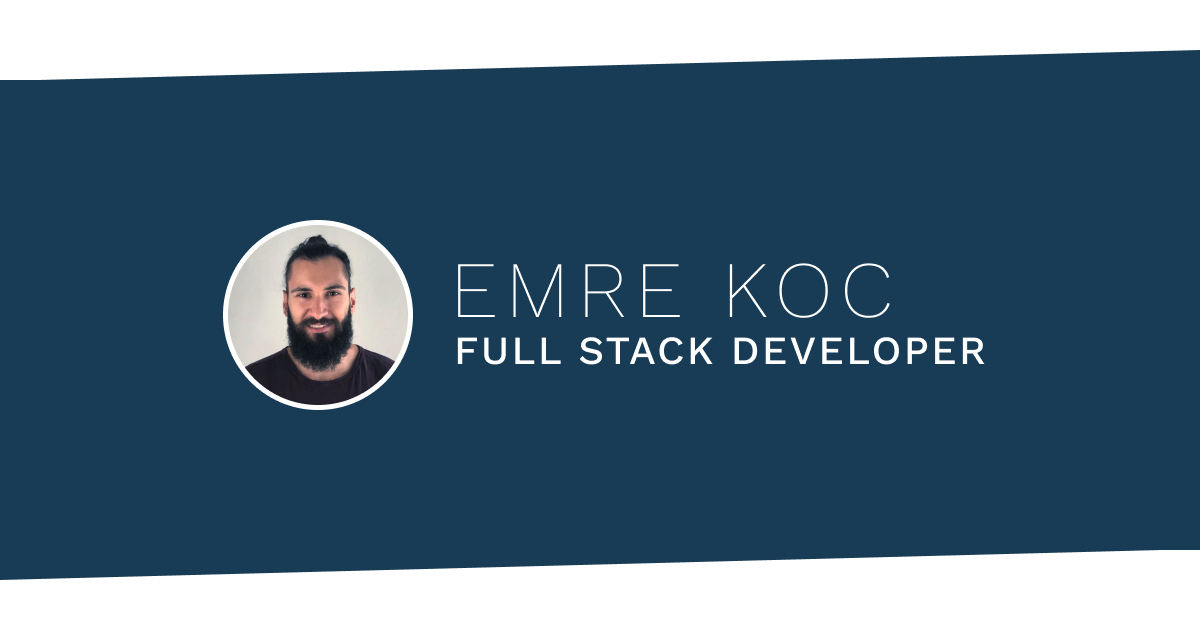
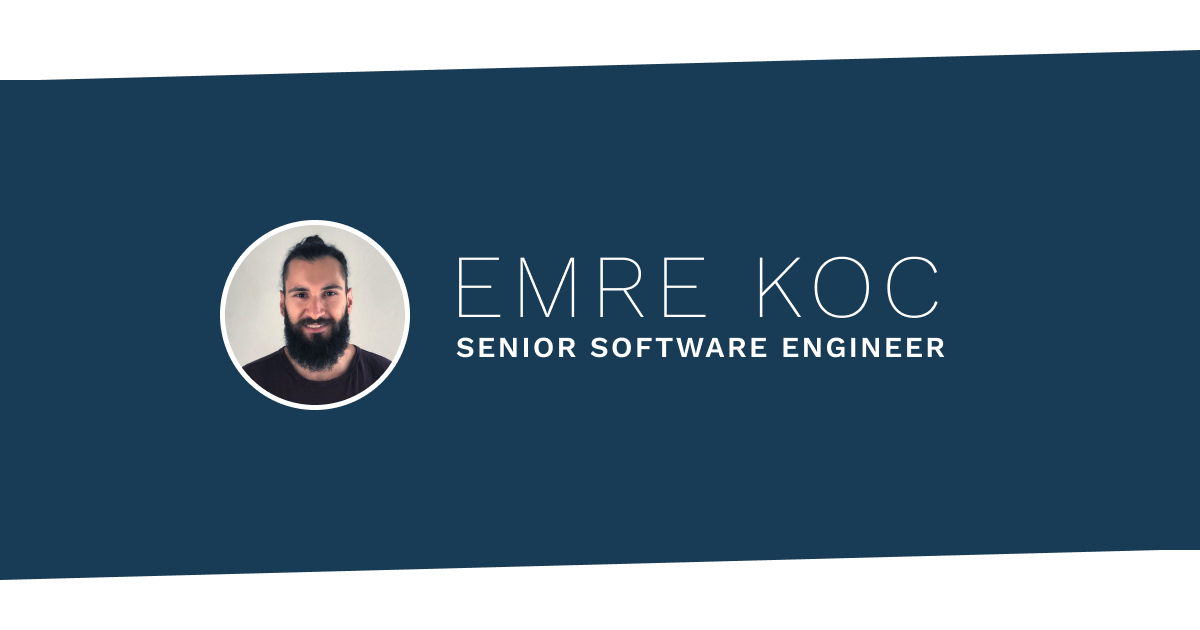
Change title to SSE

diff --git a/src/sections/Intro/index.tsx b/src/sections/Intro/index.tsx
@@ -4,13 +4,14 @@ export default function Intro() {
     return (
         <Section title="Hi">
             <Transition component="p">
-                I&apos;m a Senior Full Stack Developer with nearly 20 years of experience creating web applications.
-                Specialized in TypeScript, React, and Node.js, I focus on building user-first, scalable, and
-                maintainable products.
+                I&apos;m a Senior Software Engineer with nearly 20 years of experience creating web applications,
+                including more than a decade leading teams as a Technical Lead. Specialized in TypeScript, React, and
+                Node.js, I focus on building user-first, scalable, and maintainable digital products.
             </Transition>
             <Transition component="p">
-                I have a consistent record of rapidly delivering high quality code and valuable consultancy on processes
-                and structure, as well as the ability to manage teams of developers. My work is both creative and
+                I have a consistent record of rapidly delivering high-quality code and providing valuable guidance on
+                processes and structure. I excel at communicating with both technical and non-technical teams, aligning
+                engineering decisions with business goals to drive meaningful results. My work is both creative and
                 methodical, showcasing my passion for programming.
             </Transition>
         </Section>

diff --git a/src/sections/Tech/index.tsx b/src/sections/Tech/index.tsx
@@ -6,14 +6,14 @@ export default function Tech() {
     return (
         <Section title="Tech Stack">
             <Transition component={Container} fade={false} stall={0.1}>
-                <TechBlock title="Leadership" items="Team Lead,Architecture Design,Code Review,Mentorship" />
+                <TechBlock title="Leadership" items="Tech Lead,Architecture Design,Code Review,Mentorship" />
                 <TechBlock title="Foundation" items="TypeScript,JavaScript,PHP,HTML,CSS" />
                 <TechBlock title="Frontend" items="React,Next.js,Material UI,Tailwind,Redux,PixiJS,Three.js,D3.js" />
                 <TechBlock title="Backend" items="Node.js,NestJS,Express,REST,GraphQL,WebSockets" />
                 <TechBlock title="Database" items="PostgreSQL,MySQL,TypeORM,Sequelize,Prisma,Firebase" />
                 <TechBlock title="Testing" items="Jest,Playwright,Storybook,Chromatic" />
                 <TechBlock title="Deployment" items="Docker,Kubernetes,AWS,Azure,Heroku,GitHub Actions" />
-                <TechBlock title="Tools" items="GitHub Copilot,Claude,OpenAI,SonarCube,SentrySwagger,Figma,Mural" />
+                <TechBlock title="Tools" items="GitHub Copilot,Claude,OpenAI,SonarCube,Sentry,Swagger,Figma,Mural" />
             </Transition>
             <SectionLinks>
                 <Link href="/Emre-Koc-Resume.pdf">Download Resume (PDF)</Link>

diff --git a/src/app/layout.tsx b/src/app/layout.tsx
@@ -7,17 +7,17 @@ import './styles.css';
 import { LayoutProps } from './types';
 
 export const metadata: Metadata = {
-    description: 'Full Stack Developer',
+    description: 'Senior Software Engineer',
     metadataBase: new URL('https://emrekoc.io'),
     openGraph: {
-        description: 'Full Stack Developer',
+        description: 'Senior Software Engineer',
         images: '/assets/share.png',
         siteName: 'Emre Koc',
         title: 'Emre Koc',
         type: 'website',
         url: 'https://emrekoc.io',
     },
-    title: 'Emre Koc - Full Stack Developer',
+    title: 'Emre Koc - Senior Software Engineer',
 };
 
 export const viewport: Viewport = {

diff --git a/src/sections/Experience/index.tsx b/src/sections/Experience/index.tsx
@@ -61,8 +61,8 @@ export default function Experience() {
                 <ExperienceBlock
                     title="Senior Full Stack Developer"
                     date="June 2019"
-                    company="SICCODE.com"
-                    link="https://just.agency/en"
+                    company="SICCODE"
+                    link="https://siccode.com"
                     items={[
                         'Expanded and restructured existing PHP web application',
                         'Optimized code for load speeds, targeting page loads under 100ms',

diff --git a/src/app/page.tsx b/src/app/page.tsx
@@ -1,6 +1,6 @@
 'use client';
 import { Header } from '@/components';
-import { Connect, Education, Experience, Intro, Knowledge } from '@/sections';
+import { Connect, Education, Experience, Intro, Tech } from '@/sections';
 
 export default function Home() {
     return (
@@ -8,7 +8,7 @@ export default function Home() {
             <Header />
             <main>
                 <Intro />
-                <Knowledge />
+                <Tech />
                 <Experience />
                 <Education />
                 <Connect />

diff --git a/src/components/HeaderName/index.tsx b/src/components/HeaderName/index.tsx
@@ -33,7 +33,7 @@ export default function HeaderName() {
                     Emre Koc
                 </Top>
                 <Bottom clipPath="url(#bottom-clip)" y="95%">
-                    Full Stack Developer
+                    Senior Software Engineer
                 </Bottom>
             </Transition>
         </Heading>

diff --git a/src/components/HeaderName/styled.tsx b/src/components/HeaderName/styled.tsx
@@ -46,9 +46,9 @@ export const Top = styled.text`
 
 export const Bottom = styled.text`
     fill: currentColor;
-    font-size: 0.375em;
+    font-size: 0.295em;
     font-weight: 600;
-    letter-spacing: 0.1875em;
+    letter-spacing: 0.24em;
     text-transform: uppercase;
 `;
 
